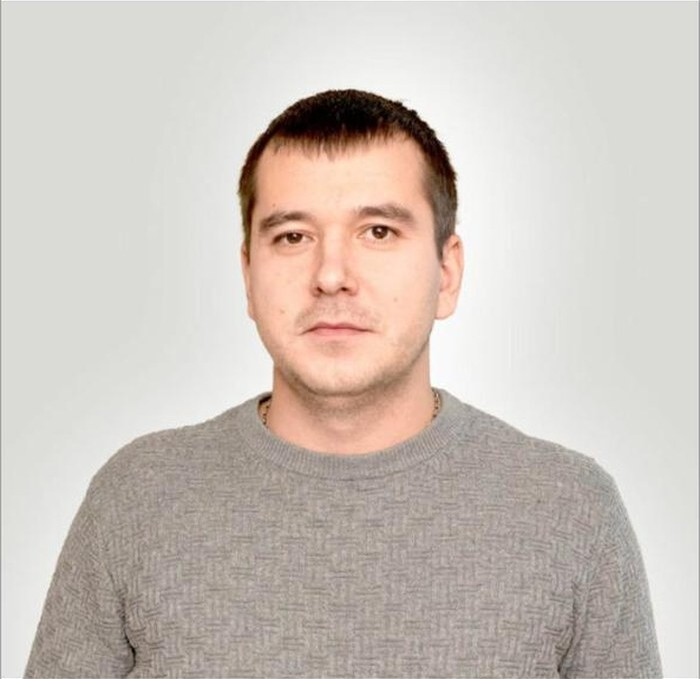
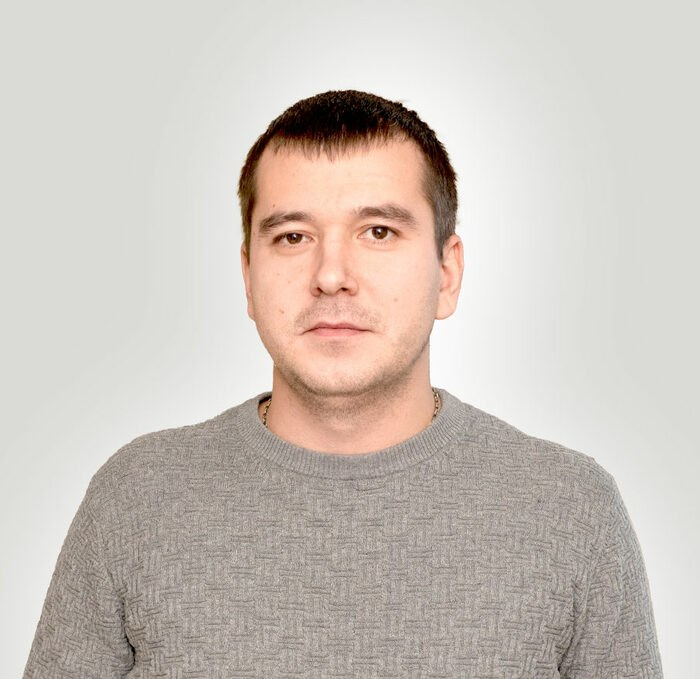
Команда: реальные сотрудники с lp.best-paints-bp.ru вместо прежних
Блок "Наша команда" теперь показывает 4 реальных сотрудников с
lp.best-paints-bp.ru (фото, имена, должности): Королев Павел
(технический директор), Полина Фунтова, Андрей Иванов, Сафронов Павел
(менеджеры отдела продаж). Прежние карточки (Павел Королёв, Борис
Королёв, Павел Сафронов) убраны вместе с их фото. Сетка команды
расширена под 4 карточки (было 3).

diff --git a/index.html b/index.html
@@ -409,28 +409,37 @@
     <div class="team">
       <article class="person reveal">
         <div class="person__ph">
-          <img src="assets/team/team-pavel.jpg" alt="Павел Королёв - технический директор"
-               width="700" height="679" loading="lazy" decoding="async">
+          <img src="assets/team/team-korolev.jpg" alt="Королев Павел - технический директор"
+               width="700" height="700" loading="lazy" decoding="async">
         </div>
-        <h3>Павел Королёв</h3>
+        <h3>Королев Павел</h3>
         <p>Технический директор</p>
       </article>
 
-      <article class="person reveal" style="--d:80ms">
+      <article class="person reveal" style="--d:70ms">
         <div class="person__ph">
-          <img src="assets/team/team-boris.jpg" alt="Борис Королёв - руководитель бригады"
-               width="700" height="679" loading="lazy" decoding="async">
+          <img src="assets/team/team-funtova.jpg" alt="Полина Фунтова - менеджер отдела продаж"
+               width="900" height="900" loading="lazy" decoding="async">
         </div>
-        <h3>Борис Королёв</h3>
-        <p>Руководитель бригады</p>
+        <h3>Полина Фунтова</h3>
+        <p>Менеджер отдела продаж</p>
       </article>
 
-      <article class="person reveal" style="--d:160ms">
+      <article class="person reveal" style="--d:140ms">
         <div class="person__ph">
-          <img src="assets/team/team-safronov.jpg" alt="Павел Сафронов - менеджер отдела продаж"
+          <img src="assets/team/team-ivanov.jpg" alt="Андрей Иванов - менеджер отдела продаж"
+               width="900" height="900" loading="lazy" decoding="async">
+        </div>
+        <h3>Андрей Иванов</h3>
+        <p>Менеджер отдела продаж</p>
+      </article>
+
+      <article class="person reveal" style="--d:210ms">
+        <div class="person__ph">
+          <img src="assets/team/team-safronov.jpg" alt="Сафронов Павел - менеджер отдела продаж"
                width="700" height="679" loading="lazy" decoding="async">
         </div>
-        <h3>Павел Сафронов</h3>
+        <h3>Сафронов Павел</h3>
         <p>Менеджер отдела продаж</p>
       </article>
     </div>

diff --git a/assets/styles.css b/assets/styles.css
@@ -600,7 +600,7 @@ em.accent,.accent{
 /* ==========================================================================
    13. КОМАНДА
    ========================================================================== */
-.team{ display:grid; grid-template-columns:repeat(3,minmax(0,1fr)); gap:clamp(20px,2.4vw,32px); }
+.team{ display:grid; grid-template-columns:repeat(4,minmax(0,1fr)); gap:clamp(18px,2vw,28px); }
 .person__ph{
   position:relative; aspect-ratio:4/4.5; overflow:hidden;
   border-radius:var(--r-card);
@@ -610,7 +610,8 @@ em.accent,.accent{
 .person__ph img{ position:absolute; inset:0; width:100%; height:100%; object-fit:cover; }
 .person h3{ margin-top:18px; font-size:21px; font-weight:700; }
 .person p{ margin-top:5px; font-size:16px; color:var(--ink-2); }
-@media (max-width:760px){ .team{ grid-template-columns:1fr; max-width:400px; margin-inline:auto; } }
+@media (max-width:900px){ .team{ grid-template-columns:repeat(2,minmax(0,1fr)); max-width:620px; margin-inline:auto; } }
+@media (max-width:560px){ .team{ grid-template-columns:1fr; max-width:400px; } }
 
 /* ==========================================================================
    14. ЧТО ДЕЛАЕМ  (иконка + заголовок + текст, две колонки справа)
